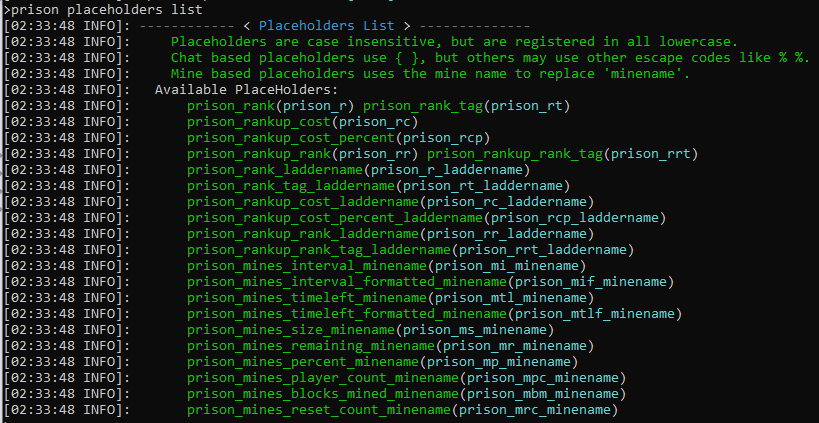
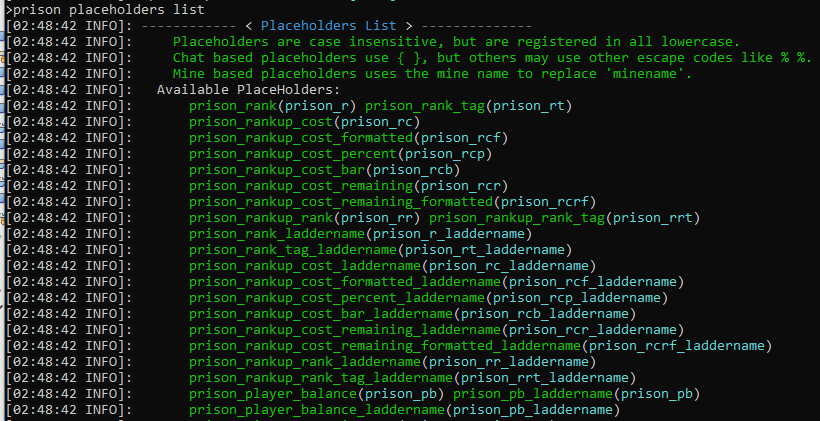
Update to the placeholders documents.

Changed region(s): [[0.1832, 0.0309, 1.0, 1.0], [0.0, 0.0, 0.2442, 1.0]]

diff --git a/docs/prison_docs_310_guide_placeholders.md b/docs/prison_docs_310_guide_placeholders.md
@@ -19,6 +19,32 @@ Add in to the mix, that different plugins deal with placeholders in slightly dif
 
 <hr style="height:1px; border:none; color:#aaf; background-color:#aaf;">
 
+# Placeholder Types and Counts
+
+* **Rank Related:** 4 including aliases
+* **Rankup Related:** 16 including aliases
+
+
+* **Rank Ladder Related:** 4 including aliases **times** each ladder
+* **Rankup Ladder Related:** 16 including aliases **times** each ladder
+
+
+* **Player Balance Related:** 2 including aliases
+* **Player Ladder Balance Related:** 2 including aliases **times** each ladder
+
+
+* **Mine Related:** 28 including aliases **times** each mine
+* **Mine Player Related:** 14 including aliases
+
+
+**Total base Placeholders:** 86 including aliases
+
+
+**Total if 26 Mines and 3 Ladders:** 836 placeholder including aliases (20 + 24*3 ladder + 2 + 28*26 mines + 14) 
+	
+
+<hr style="height:1px; border:none; color:#aaf; background-color:#aaf;">
+
 
 # Requirements
 
@@ -31,15 +57,19 @@ There is always more than one way to do things, and the same goes for having mor
 
 # Placeholder Theory for Prison
 
-There are two major types of placeholders in prison: Player based and Mine based.
+There are two major types of placeholders in prison: Player based and Mine based. With the most recent releases of prison, there have been hybrids added that are a combination of the two.  For example there are now ladder based placeholder that allow targeting ranks on a specific ladder, instead of all ladders.  Also there are player mine placeholders that report on the mine stats for the mine in which the player is physically located in.  The player mine placeholders have no value when the player is not in a mine, and they will change as the player goes from mine to mine.
 
-The player based placeholders can only report on the player that is initiating the command, or request. These placeholders pertain to the player's attributes, such as rank or next rank.  Internally, all of these requests must include the player's UUID, which is why you cannot just add them to a sign, since the sign does not know any player's UUID.
+There are also different types of data that are returned in placeholders. Text, numbers, formatted numbers, and bar graphs.
 
-There are actually two kinds of player based placeholders.  Rank placeholders that returns all of the player's current attributes for all active ladders they are associated with.  For example, if they are active on four ladders, then they will have four active ranks on four ladders with possible values.  So it may look something like this: `[mod][Zeus][+2][B]`, of which the ladders could be mod, donor, prestige, and default.  The thing to remember about player rank placeholders is that they may return more than one value, and you cannot control the order of the values (yet).
+The player based placeholders can only report on the player that is initiating the command, or request. These placeholders pertain to the player's attributes, such as rank, next rank, their balance, how more they need before reaching the next rank, and etc.  Internally, all of these requests must include the player's UUID, which is why you cannot just add them to a sign, since the sign does not know any player's UUID.
 
-The other player based placeholders are similar to the player rank placeholders, but are specific to a single ladder.  This allows you to get single placeholder, and control the order of placeholders, at the expense of having to specify multiple placeholders.
+There are actually two major kinds of player based placeholders; a third type is "related" more to mines and not specifically to the player's ranks.  Rank placeholders that returns all of the player's current attributes for all active ladders they are associated with.  For example, if they are active on four ladders, then they will have four active ranks on four ladders with possible values.  So it may look something like this: `[mod][Zeus][+2][B]`, of which the ladders could be mod, donor, prestige, and default.  The thing to remember about player rank placeholders is that they may return more than one value, and you cannot control the order of the values.
+
+The other player based placeholders, which complements the Rank Placeholders, are the ladder placeholders that narrows the ranks down to a specific ladder.  So with our example above, if you only want the ranks from the *default* ladder, that is now possible. Also you can control the order they appear by ordering the ladder placeholders in a specific sequence.  
 
 The Mine based placeholders provide details about mines, and the mine name becomes part of the placeholder name.  Out of all of the possible mine based placeholders, each one is duplicated for each mine.  So, in rough terms, if there are different mine placeholders and you have 40 mines, then prison will generate about 400 place holders: 40 mines x 10 placeholders each = 400 placeholders for prison.
+
+The same applies to the ladder placeholders as the mine placeholders; for every ladder, there will be a specific placeholder that represents each ladder.  
 
 Prison has integrations for direct use of providing placeholder values to to the other plugins. Some of those other plugins request placeholder values using partial placeholder names.  Therefore to improve performance and to prevent having to always reconstructing the full placeholder names, prison precomputes the fragments for all placeholders.  Therefore, with our example of 40 mines and 10 placeholders, the actual internal number of placeholder combinations that prison will respond to is 800: 40 mines x 10 placeholders per mine  x 2 for aliases = 800 placeholders for prison.
 
@@ -54,7 +84,7 @@ Also, internally, prison only responds to the placeholder name without the escap
 
 # Rank Command Placeholders
 
-The Rank Commands recognize only two placeholders, but they are not considered part of the standard placeholders.  There are also only two placeholders that are recognized and both are case sensitive, and must also include curly braces too.
+The Rank Commands recognize only two placeholders, but they are not considered part of the standard placeholders.  There are also only two placeholders that are recognized and both are case sensitive (must be lower case), and must also include curly braces too.
 
 * {player}
 * {player_uid}
@@ -78,8 +108,13 @@ There are a few commands within prison that will allow you list placeholders, se
 * **/prison placeholders search**
 * **/prison placeholders test**
 
+* **/prison placeholders reload**
 
-* **/prison version** Provides the same placeholder listing as /prison placeholders list.
+NOTE: the `/prison placeholders reload` command only reloads and registers the placeholders with the placeholder integrations.  This would be required to enable placeholders on a new mine or new ranks or a new ladder that were added since the last server restart.  Also if you reload another plugin, such as papi, you will need to reload the plugins, which just re-registers them.
+
+
+
+* **/prison version** No longer provides a list of placeholders since it's become too large.
 
 
 
@@ -93,25 +128,45 @@ Example of placeholder command listings
 <h3>Prison Placeholder Listings</h3>
 
 <img src="images/prison_docs_310_guide_placeholders_2.png" alt="Prison Placeholder Listing" title="Prison Placeholder Listing" width="500" />
+<img src="images/prison_docs_310_guide_placeholders_2b.png" alt="Prison Placeholder Listing" title="Prison Placeholder Listing" width="500" />
 
-Example of the list of placeholders that is available through **/prison version** and **/prison placeholders list**.  Please note that this list may evolve as new placeholders are added.  Use these commands to get the current listing that is available on your server.
+Example of the list of placeholders that is available through **/prison placeholders list**.  Please note that this list may evolve as new placeholders are added.  Use these commands to get the current listing that is available on your server.
 
 
-<h3>Prison Placeholder Search with Two Search Patters</h3>
+<h3>Prison Placeholder Search with Two Search Patterns</h3>
 
 <img src="images/prison_docs_310_guide_placeholders_3.png" alt="Prison Placeholder Search" title="Prison Placeholder Search" width="500" />
 
-This is an example of searching for placeholders using two search patterns: *temp5* and *format*. The term temp5 is the name of a mine and is an example of a the dynamic construction of placeholders, and that you can still perform a search with them.  The search patters can be any String fragment found in either the placeholder, or it's alias.  
+This is an example of searching for placeholders using a player's name plus two search patterns: *temp5* and *format*. The term temp5 is the name of a mine and is an example of a the dynamic construction of placeholders, and that you can still perform a search with them.  The search patterns can be any String fragment found in either the placeholder, or it's alias.  
 
 If more than one search pattern is provided, then all patters must hit on the same placeholder to be included in the results.  They behave as a logical AND relationship. 
 
+A player's is provided, but results do not include any player, rank, or ladder entries.  This shows that if a player's name is provide, it is recognized as a player and will not prevent valid hits.
+
+
+The following example shows what the command is like when specifying the player's name, a page numer for the results, and three search parameters:
+
+```
+/prison placeholders search RoyalCoffeeBeans 1 rankup cost default
+```
+
+This example shows the current placeholder values for that player, including an example of a bar graph.
+
+<img src="images/prison_docs_310_guide_placeholders_3b.png" alt="Prison Placeholder Search" title="Prison Placeholder Search" width="600" />
 
 
 <h3>Prison Placeholder Listings - All Placeholders</h3>
 
-<img src="images/prison_docs_310_guide_placeholders_4.png" alt="Prison Placeholder Listing" title="Prison Placeholder Listing" width="500" />
+<img src="images/prison_docs_310_guide_placeholders_4.png" alt="Prison Placeholder Listing" title="Prison Placeholder Listing" width="600" />
 
 In this contrived example, since all placeholders begin with "prison", this search returns a listing of all placeholders. In this example, using the current Prison v3.2.1-alpha.13 release, it has generated 65 pages of results, at 6 placeholders per page which includes the alias.  
+
+The following shows an example of all placeholders that are active with Prison_v3.2.2-alpha.10.jar.  It includes a total of 1,294 placeholders, on 108 pages.  This is based upon 4 ladders, 13 ranks, and 41 mines.
+
+
+<img src="images/prison_docs_310_guide_placeholders_4b.png" alt="Prison Placeholder Listing" title="Prison Placeholder Listing" width="600" />
+
+
 
 
 <h3>Prison Placeholder Listings</h3>
@@ -251,6 +306,7 @@ temp5:
   - 'Welcome to Prison Mine: temp5'
   - 'Reset Interval: {slowest}%prison_mines_interval_temp5% - {slowest}%prison_mines_interval_formatted_temp5%'
   - 'Reset Time Left: {medium}%prison_mines_timeleft_temp5% - {fast}%prison_mtlf_temp5%'
+  - 'Reset Time Left: {slowest}%prison_mines_timeleft_bar_temp5%'
   - 'Reset Count: {medium}%prison_mines_reset_count_temp5%'
   - 'Mine Size: {slowest}%prison_mines_size_temp5%'
   - 'Blocks Remaining: {slowest}%prison_mr_temp5% {slowest}%prison_mp_temp5%%'
@@ -258,6 +314,10 @@ temp5:
 ```
 
 Notice that the prison placeholders are wrapped in the % % escape characters.  The prefixed placeholders such as {slowest} and {fast} are for the plugin HolographicExtensions and they control how frequently the placeholders are refreshed.
+
+This is an example of the above settings, including the bar graph.  Notice that the bar graph's properties can be adjusted for both the characters that are used, and the total number of characters (width).  See the configuration within the file `/plugins/Prison/config.yml`.
+<img src="images/prison_docs_310_guide_placeholders_6.png" alt="Prison Holographic Displays" title="Prison Placeholder Listing" width="600" />
+
 
 Once you update and save the database.yml file, you can have HolographicDisaplys reload from the files:
 

diff --git a/changelog_v3.2.x.md b/changelog_v3.2.x.md
@@ -11,6 +11,28 @@ that you need.
 ## tag v3.2.2-alpha.10 - 2020-10-26
 
 
+* **Hooking up more of the prison's mines commands to properly, and fully, use the new prison block model.**
+The new PrisonBlocks are now being validated against the dynamic list of valid blocks that are available on the server that is running prison.  So within the block search, as one example, it will only show valid blocks that can be used; the old block model would show all possible blocks within prison, some of which may not have been blocks.
+
+
+* **Enhancements for Prison's new block model**
+Enhance the PrisonBlock to use block instead of mineable for better consistency with bukkit and spigot use of blocks.  Also set block name to be always lower case for easier searches.
+PrisonBlockTypes has been enhanced to be able to search for blocks by name.  This is using a b-tree for quicker retrieval instead of loop though all available blocks.
+When valid blocks are added to PrisonBlockTypes (the valid blocks that exist on that server) they are have their isValid and isBlock values set to true.  Also now using XMaterial names for better long term consistency that will not change if the admins upgrade or down grade their servers.
+
+
+* **Hook PrisonBlockTypes up to the Prison object.**
+This will load a list of new block types at server startup that have been validated against the version of minecraft that is running.  This will ensure that the only blocks that the player will see listed in block searches, as one example, will be blocks they can actually use.  This is highly dynamic based upon the server and not the complier.
+This is preparing for the use of the new block model by giving access to valid blocks within many of the /mine related commands.
+
+
+* **Remove more of the Items related code** which has not been used for awhile.  ItemManager and troubleshooters related to that.
+
+
+* **Reenabled the caching of null values when translating from one material type to another.**
+This prevents looking up a failed code many times and only allows one error message to be logged to the console.
+
+
 * **v3.2.2-alpha.10 - 2020-10-26**
 Version bump due to the significance of the last bug fix.
 
